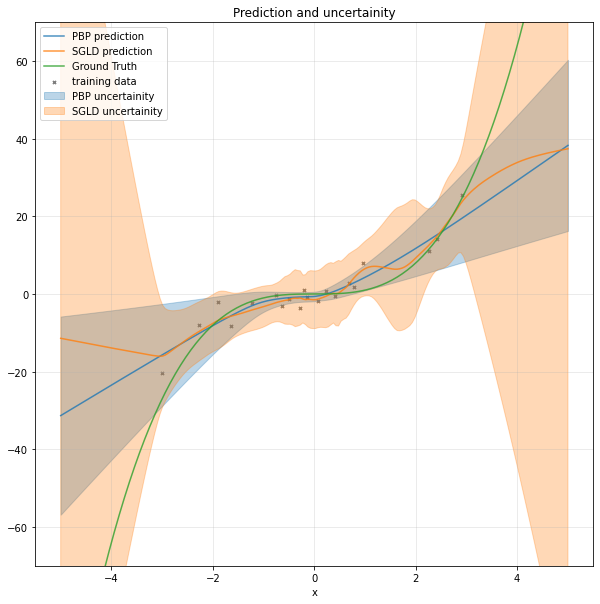
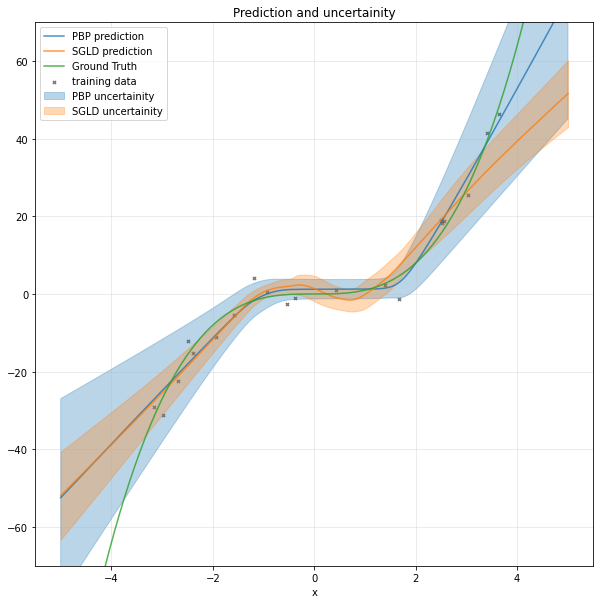
Adding prior to SGLD; redoing experiments

Changed region(s): [[0.09, 0.0298, 0.96, 0.9536], [0.09, 0.0298, 0.18, 0.0596]]

diff --git a/code/sgld_code_new/wrapper.py b/code/sgld_code_new/wrapper.py
@@ -38,29 +38,28 @@ class Langevin_Wrapper():
         self.loss_func = torch.nn.MSELoss(reduction='mean')
         # self.loss_func = sgld_utils.log_gaussian_loss
 
-        # self.scheduler = torch.optim.lr_scheduler.StepLR(
-        #     self.optimizer, step_size=int(num_epochs//6), gamma=0.5)  # to reduce by 100 over the course of optimization
+        self.scheduler = torch.optim.lr_scheduler.MultiplicativeLR(
+            self.optimizer, lr_lambda=lambda epoch: 0.02 if epoch == num_burn_in_steps-2 else 1.0)  # to reduce by 100 over the course of optimization
 
     def fit(self, x, y):
         # x, y = sgld_utils.to_variable(var=(x, y), cuda=self.cuda)
 
         output = self.network(x)
-        loss = self.loss_func(output, y)
+        fidelity = self.loss_func(output, y)
 
         # # compute the prior on parameters:
-        # prior = 0.0
-        # for param in self.network.net.parameters():
-        #     if param.requires_grad:
-        #         prior += (0.5)*torch.sum(torch.pow(param, 2))
+        prior = 0.0
+        for param in self.network.net.parameters():
+            if param.requires_grad:
+                prior += torch.sum(torch.pow(param, 2))
 
-        # loss = 0.5*self.loss_func(
-        #     output, y, self.network.noise, 1)  # + 0.0*prior
+        loss = fidelity + 1e-3 * prior
 
         # reset gradient and total loss
         self.optimizer.zero_grad()
         loss.backward()
         self.optimizer.step()
-        # self.scheduler.step()
+        self.scheduler.step()
 
         return loss
 

diff --git a/results/pbp_sgld_results.md b/results/pbp_sgld_results.md
@@ -1,5 +1,12 @@
 # Experiments and results for SGLD
 
+SGLD params:
+
+- num_nets = 1500
+- mix_epochs = 50
+- burnin_epochs = 20e3+1
+- lr = 5e-5
+
 ## Dataset 1
 
 20 points in training set
@@ -15,13 +22,6 @@ Model details:
 - num_hidden = 1
 - hidden_units = 25
 
-SGLD params:
-
-- num_nets = 1500
-- mix_epochs = 50
-- burnin_epochs = 20e3 + 1
-- lr = 1e-4
-
 ![Plot](./plots/pbp_sgld_data1_exp1.png)
 
 ### Experiment 2
@@ -31,14 +31,7 @@ Model details:
 - num_hidden = 1
 - hidden_units = 50
 
-SGLD params:
-
-- num_nets = 1500
-- mix_epochs = 50
-- burnin_epochs = 20e3
-- lr = 3e-5
-
-  ![Plot](./plots/pbp_sgld_data1_exp2.png)
+![Plot](./plots/pbp_sgld_data1_exp2.png)
 
 ### Experiment 3
 
@@ -46,13 +39,6 @@ Model details:
 
 - num_hidden = 1
 - hidden_units = 100
-
-SGLD params:
-
-- num_nets = 1500
-- mix_epochs = 50
-- burnin_epochs = 20e3+1
-- lr = 3e-5
 
 ![Plot](./plots/pbp_sgld_data1_exp3.png)
 
@@ -63,13 +49,6 @@ Model details:
 - num_hidden = 2
 - hidden_units = 25
 
-SGLD params:
-
-- num_nets = 1500
-- mix_epochs = 50
-- burnin_epochs = 20e3+1
-- lr = 3e-5
-
 ![Plot](./plots/pbp_sgld_data1_exp4.png)
 
 ### Experiment 5
@@ -79,13 +58,6 @@ Model details:
 - num_hidden = 2
 - hidden_units = 50
 
-SGLD params:
-
-- num_nets = 1500
-- mix_epochs = 50
-- burnin_epochs = 20e3+1
-- lr = 3e-5
-
 ![Plot](./plots/pbp_sgld_data1_exp5.png)
 
 ### Experiment 6
@@ -94,13 +66,6 @@ Model details:
 
 - num_hidden = 2
 - hidden_units = 100
-
-SGLD params:
-
-- num_nets = 1500
-- mix_epochs = 50
-- burnin_epochs = 20e3+1
-- lr = 3e-5
 
 ![Plot](./plots/pbp_sgld_data1_exp6.png)
 
@@ -118,13 +83,6 @@ Model details:
 - num_hidden = 1
 - hidden_units = 25
 
-SGLD params:
-
-- num_nets = 1500
-- mix_epochs = 50
-- burnin_epochs = 65e3+1
-- lr = 6e-5
-
 ![Plot](./plots/pbp_sgld_data2_exp1.png)
 
 ### Experiment 2
@@ -133,13 +91,6 @@ Model details:
 
 - num_hidden = 1
 - hidden_units = 50
-
-SGLD params:
-
-- num_nets = 1500
-- mix_epochs = 50
-- burnin_epochs = 65e3+1
-- lr = 6e-5
 
 ![Plot](./plots/pbp_sgld_data2_exp2.png)
 
@@ -150,13 +101,6 @@ Model details:
 - num_hidden = 1
 - hidden_units = 100
 
-SGLD params:
-
-- num_nets = 1500
-- mix_epochs = 50
-- burnin_epochs = 65e3+1
-- lr = 6e-5
-
 ![Plot](./plots/pbp_sgld_data2_exp3.png)
 
 ### Experiment 4
@@ -165,13 +109,6 @@ Model details:
 
 - num_hidden = 2
 - hidden_units = 25
-
-SGLD params:
-
-- num_nets = 1500
-- mix_epochs = 50
-- burnin_epochs = 65e3+1
-- lr = 3e-5
 
 ![Plot](./plots/pbp_sgld_data2_exp4.png)
 
@@ -182,13 +119,6 @@ Model details:
 - num_hidden = 2
 - hidden_units = 50
 
-SGLD params:
-
-- num_nets = 1500
-- mix_epochs = 50
-- burnin_epochs = 65e3+1
-- lr = 3e-5
-
 ![Plot](./plots/pbp_sgld_data2_exp5.png)
 
 ### Experiment 6
@@ -198,26 +128,19 @@ Model details:
 - num_hidden = 2
 - hidden_units = 100
 
-SGLD params:
-
-- num_nets = 1500
-- mix_epochs = 50
-- burnin_epochs = 65e3+1
-- lr = 3e-5
-
 ![Plot](./plots/pbp_sgld_data2_exp6.png)
 
 ## Dataset 3
 
-- Using Gaussian distribution with std 1.5
-- other params as exp2 of dataset 1
+- Using Gaussian distribution with std 1.0
+- other params as exp5 of dataset 1
 
 ![Plot](./plots/pbp_sgld_data3_exp2.png)
 
 ## Dataset 4
 
-- Using Gaussian distribution with std 1.0
-- other params as exp2 of dataset 1
+- Using Gaussian distribution with std 1.5
+- other params as exp5 of dataset 1
 
 ![Plot](./plots/pbp_sgld_data4_exp2.png)
 
